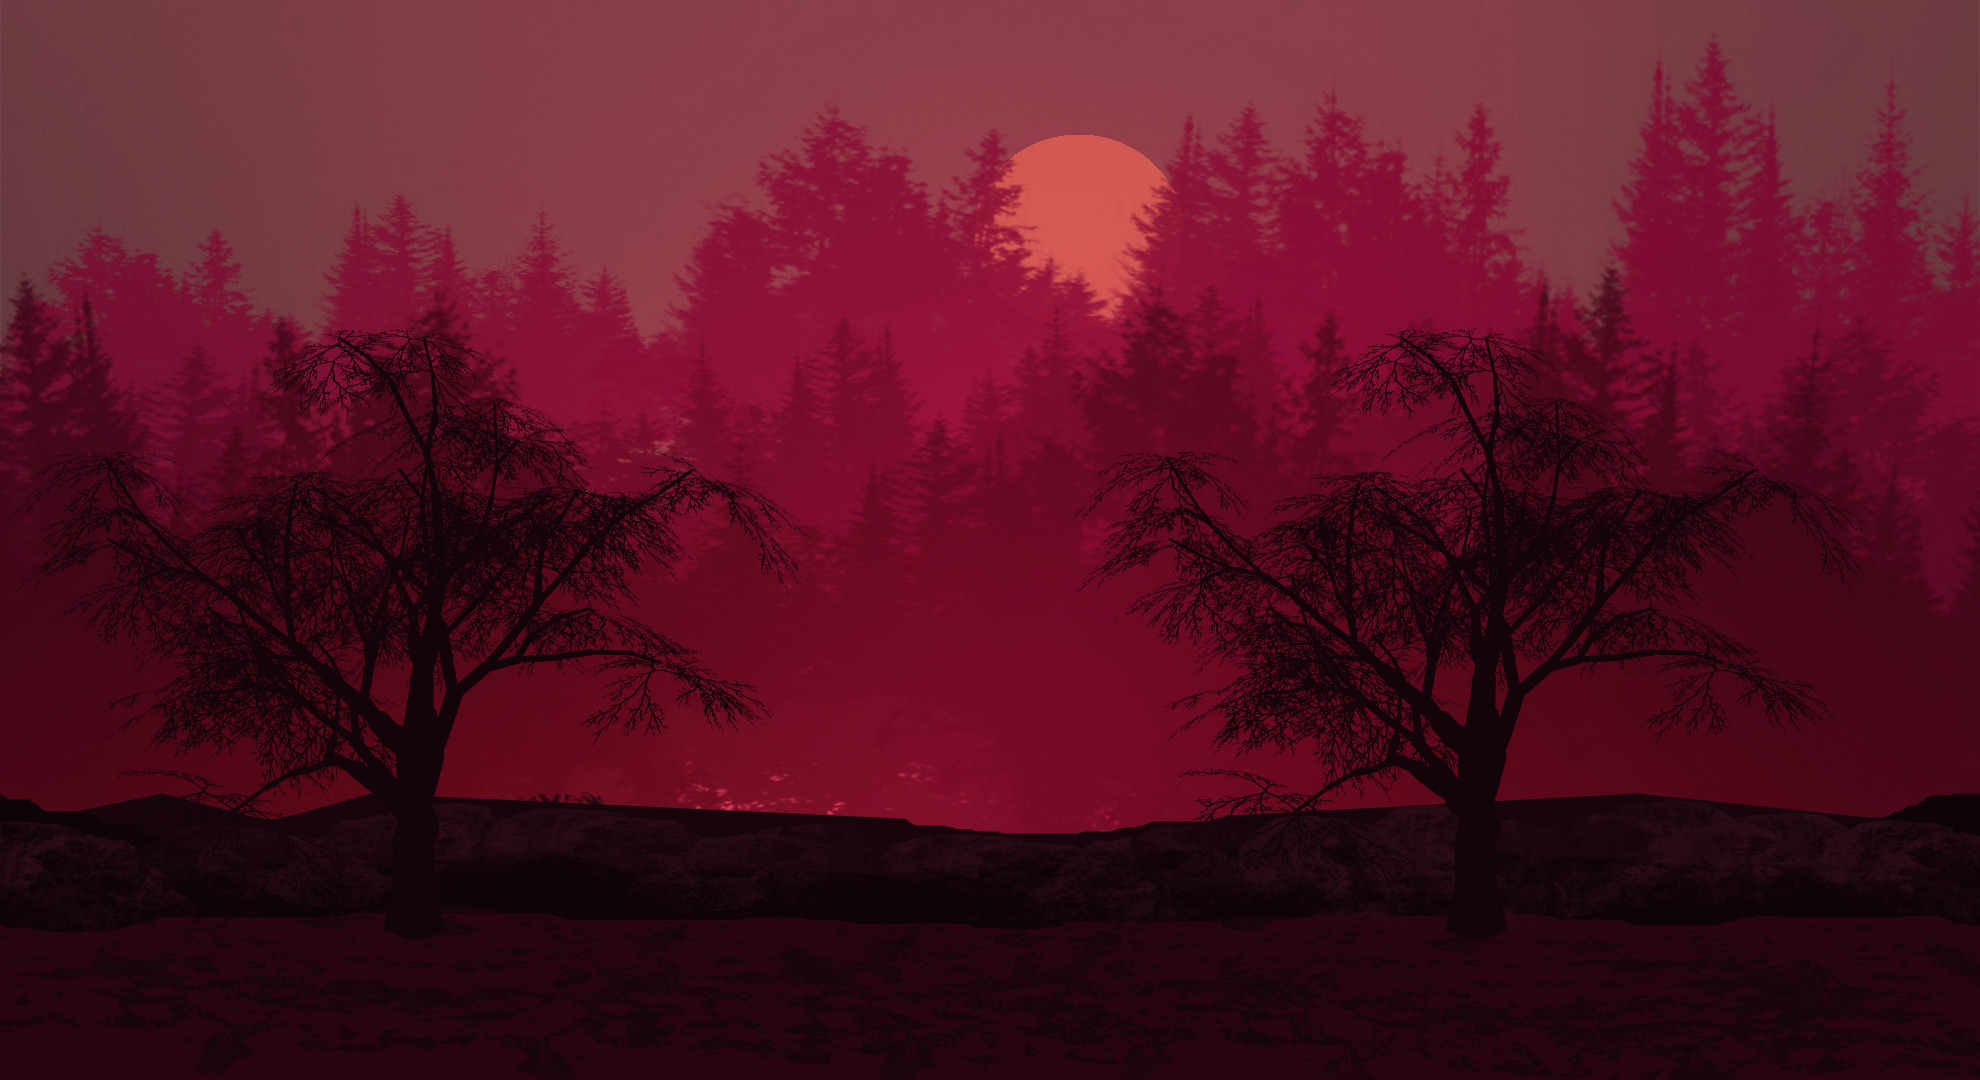
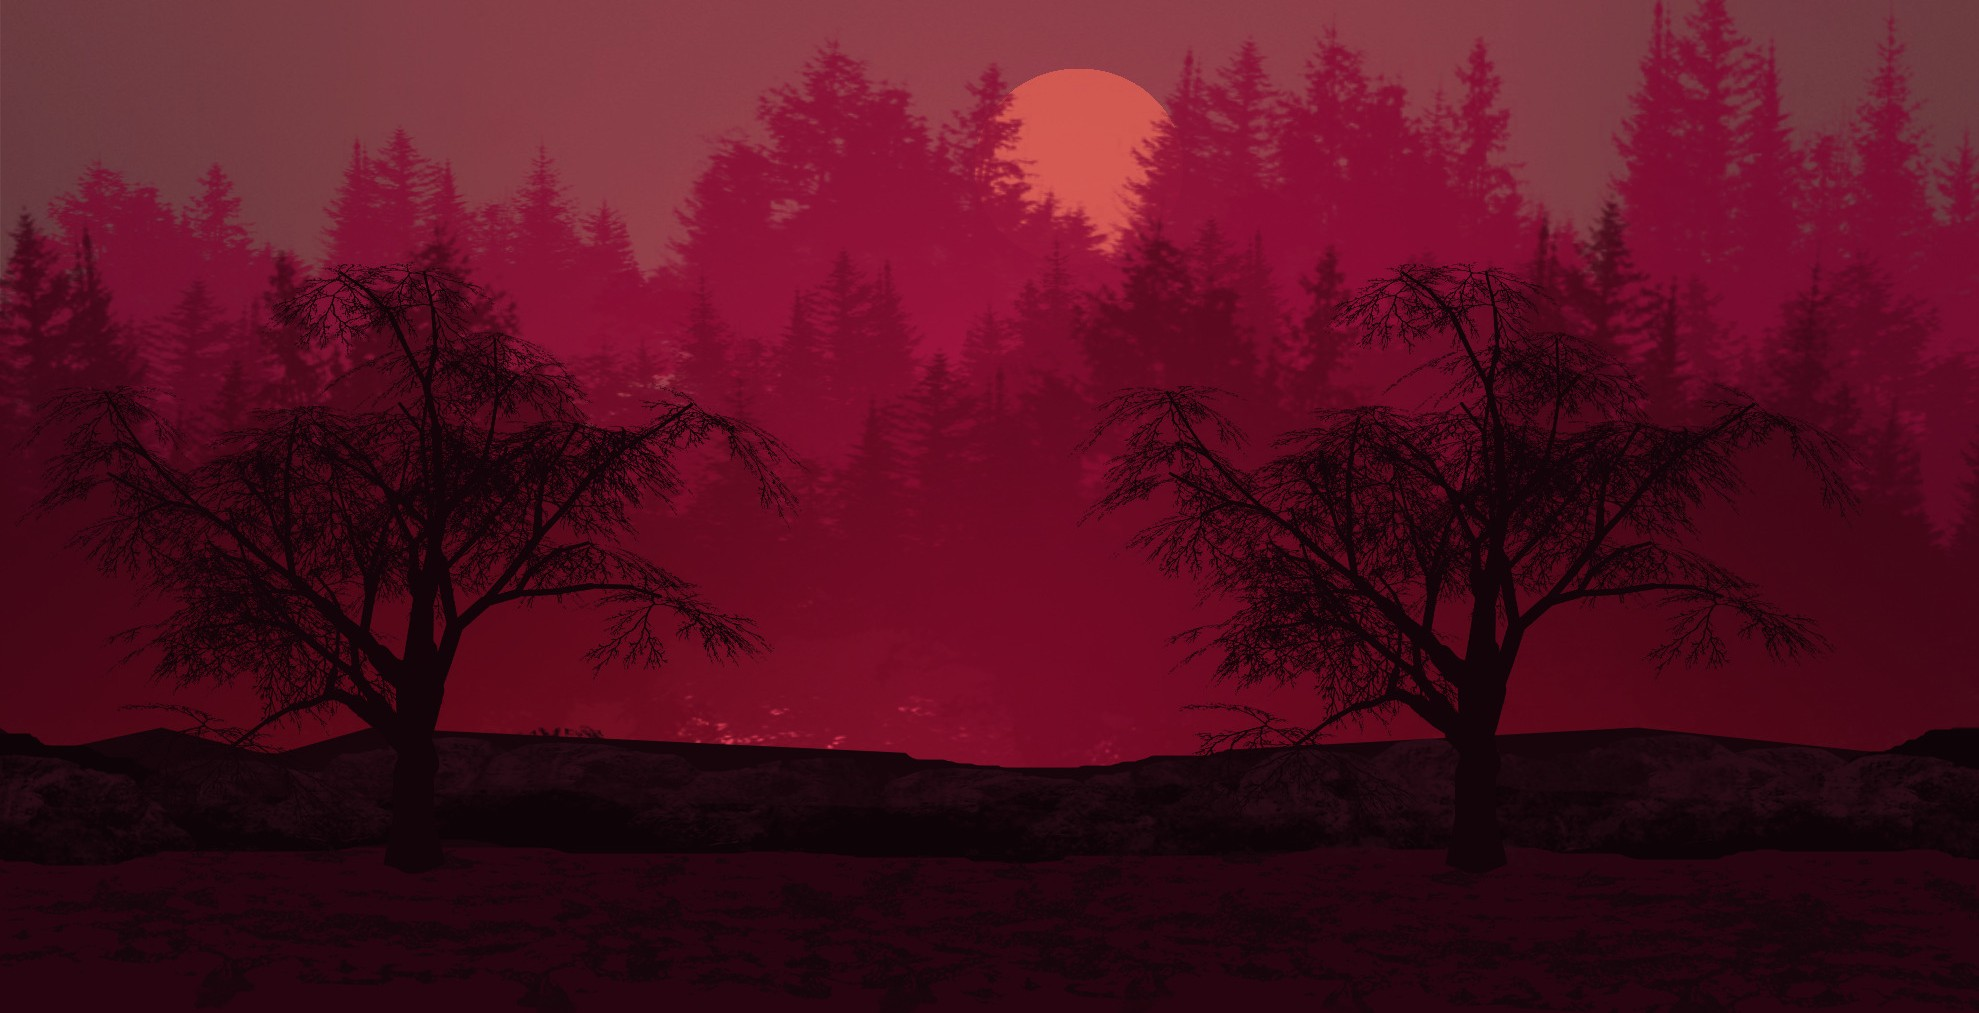
fix(style): abrupt end to background

diff --git a/src/app/layout.tsx b/src/app/layout.tsx
@@ -43,7 +43,7 @@ export default function RootLayout({
             `,
         }}
       />
-      <body className="bg-gray-950 bg-forest bg-left-top font-body text-white">
+      <body className="bg-forest bg-forest-bottom bg-top bg-no-repeat font-body text-white">
         <div className="flex h-full min-h-screen flex-col">
           {children}
           <Footer />

diff --git a/tailwind.config.js b/tailwind.config.js
@@ -20,6 +20,7 @@ module.exports = {
       },
       backgroundColor: {
         backdrop: "rgb(31 41 55 / 50%)",
+        "forest-bottom": "#280410",
       },
     },
   },
